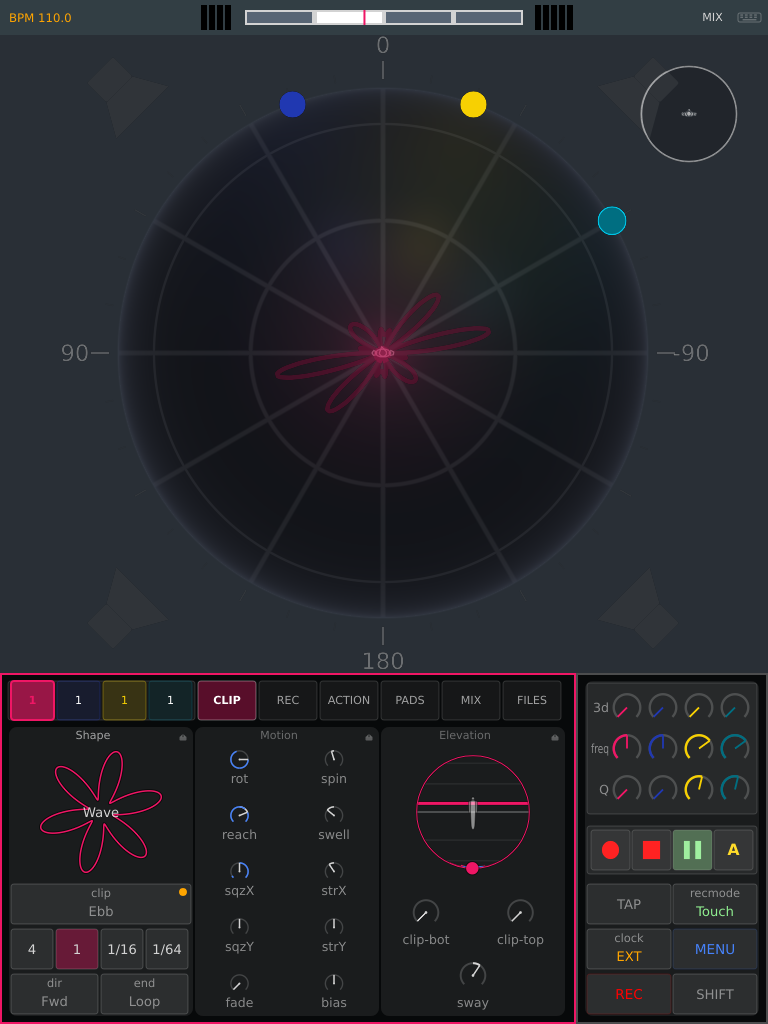
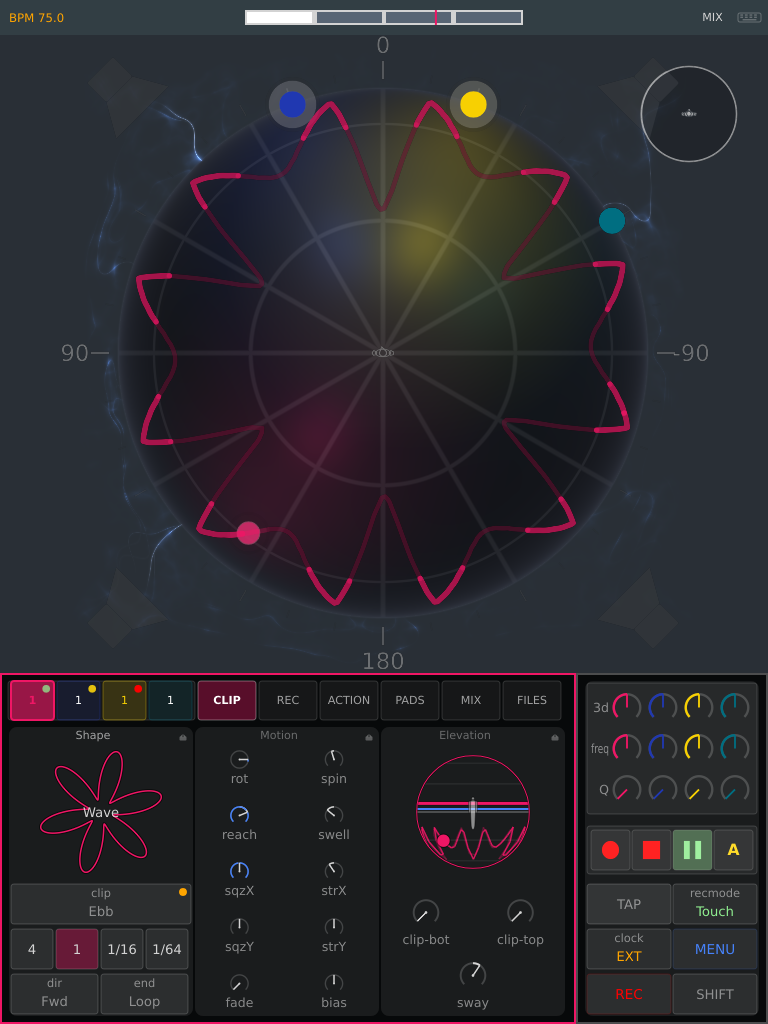
docs: the quiet status bar, and the dot that replaced it
Nine VU meters left the one band that is always in view. The five
outputs were already on the MIX page; the four inputs became a dot on
each channel's own key, in the meters' own green/yellow/red, gone
entirely at silence.

Screenshots retaken with signal on three channels and none on the
fourth, which is the picture that says what the mark is for.

diff --git a/src/development/moc.md b/src/development/moc.md
@@ -120,6 +120,50 @@ values were marked *primed* by a tick that had sent nothing at all, so the
 three of twelve values that happened to sit at 0.0 never reached Core. Priming
 now happens only on a tick that actually sent.
 
+## The status bar and the signal dots
+
+The status bar carried nine VU meters for two days — four inputs left of the
+beat display, five outputs right of it — and most of `StatusBarLayout` was the
+negotiation over how much width they could take from the two readings. The
+maintainer's verdict on 2026-09-12: *"die vu-meter in der statusleiste sind
+too much. das machts unübersichtlich."*
+
+The five outputs needed no new home: the MIX page's master column has had the
+same five, full height, all along. The four inputs got a better one — a
+**dot on each channel's own face** in the bar below, which is where a hand
+looking for a channel already looks. The status bar had put four channels'
+levels somewhere that is not the four channels.
+
+```cpp
+struct VuDot
+{
+  bool visible = false;      // false below the meter's floor: silence is nothing
+  std::size_t band = vuGreenBand;
+  float alpha = 0.f;         // follows the level; the size stays put
+};
+```
+
+Three decisions worth knowing:
+
+- **It is a warning light, and the meter deliberately is not.** A meter's
+  bands are stretches of its track, so a bar filled into the red is green at
+  its foot and red only at its head — which is what lets it say *how far* over
+  you are. A dot has no length. That trade is made knowingly, and the full
+  meter did not go away; it moved.
+- **Silence is no dot at all**, not a dim one. "Quiet" and "none" are the two
+  states a hand needs told apart at a glance.
+- **It reads the rms, not the peak.** A peak is a transient; through a mark
+  with no length it would flicker at every drum hit and read as noise.
+
+The colour comes from `vuBandColour` — the meter's own rule, not a second copy
+— and a test insists the dot turns yellow exactly where the meter's fill
+does. Two instruments disagreeing about one signal is the failure that rule
+prevents.
+
+The repaint compares the drawn *dot* rather than the level behind it: an rms
+wobbles every frame and almost none of that wobble changes a band or a byte of
+alpha. This bar is on screen for the whole of a set.
+
 ## Older Versions
 The sphere before the touch rework, when the hardware encoders still did the
 navigating:

diff --git a/src/user/a3motion.md b/src/user/a3motion.md
@@ -17,14 +17,27 @@
 
 ![The A³ Motion display in operation](pics_user/a3-motion-ui-display-v03.png)
 
-The screen has three bands. Along the top sits the status bar: the current tempo
-on the left, the beat grid in the middle — it fills as the bar runs — and the
-clock source on the right.
+The screen has three bands. Along the top sits the status bar, and it is
+deliberately almost empty: the current tempo on the left, the beat grid in the
+middle — it fills as the bar runs — and the MIX key on the right. It carried
+nine level meters for two days and they made the one band that is always in
+view the busiest thing on the screen.
 
 The middle band is the room seen from above. Each channel is a coloured blob;
 drag one and its sound moves with it. The four dark shapes at the corners are
 the speakers, lit by what they are actually playing, and the field around the
 sphere shows where the energy in the room is coming from.
+
+The four coloured cells at the left of the tab row are the channels. Each
+carries a **signal dot** in its top right corner: the channel's input level,
+in the same green / yellow / red the meters use, brighter the louder it is —
+and **gone entirely when the channel is silent.**
+
+![The four channel keys, three with signal and one without](pics_user/a3-motion-signal-dots.png)
+
+That is the question you actually have mid-set — *is this channel making
+sound, and roughly how hot* — asked where the answer belongs, on the channel
+itself. For reading a level properly, the MIX page has the full meters.
 
 The bottom band holds the settings of the selected clip, framed in that
 channel's colour: its shape, how it is mapped in elevation, how it moves in

diff --git a/src/ressources/history.md b/src/ressources/history.md
@@ -37,6 +37,11 @@ they look like. In order:
   window was wrong about itself. All five gone. That is the return on having
   built the register at all.
 
+- **And the screen got quieter.** The status bar's nine level meters made the
+  one band that is always in view the busiest thing on it. The outputs were
+  already on the MIX page; the four channels' levels became a dot on each
+  channel's own key, which is where a hand looking for a channel looks.
+
 ![Core's window](../development/pics_development/a3core-window-traffic.png)
 
 ![The register, filtered to the A³ Mixer](../development/pics_development/a3core-window-register-mixer.png)
